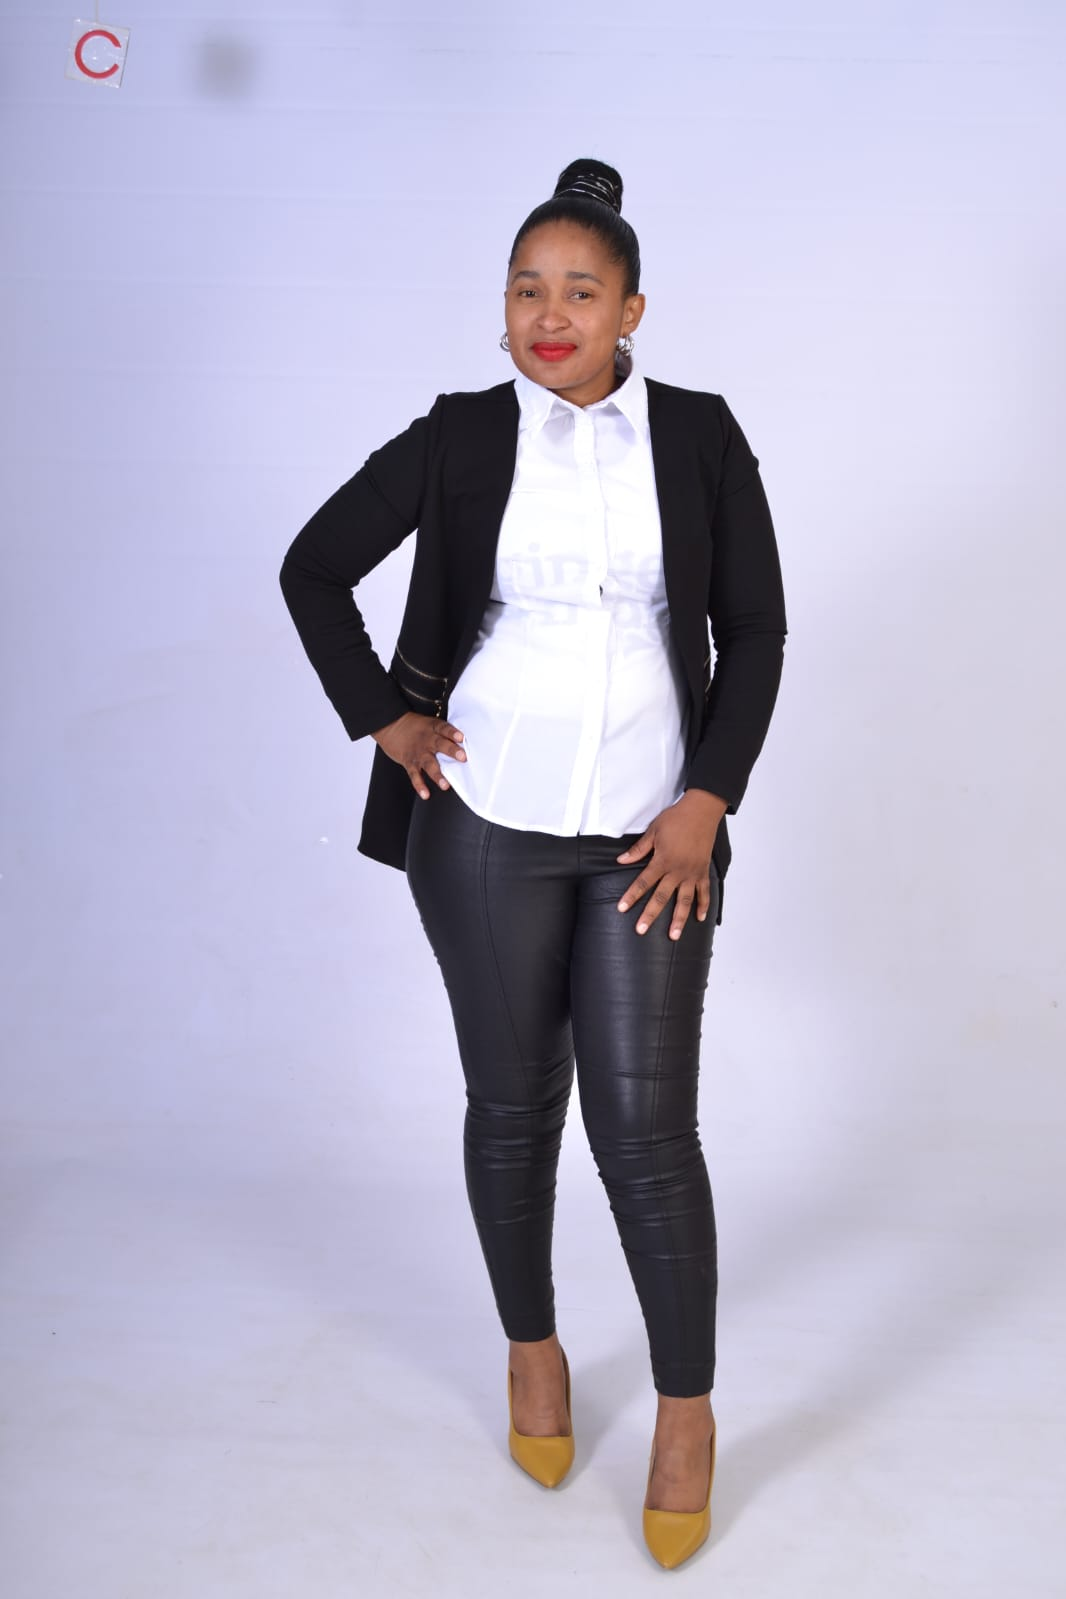
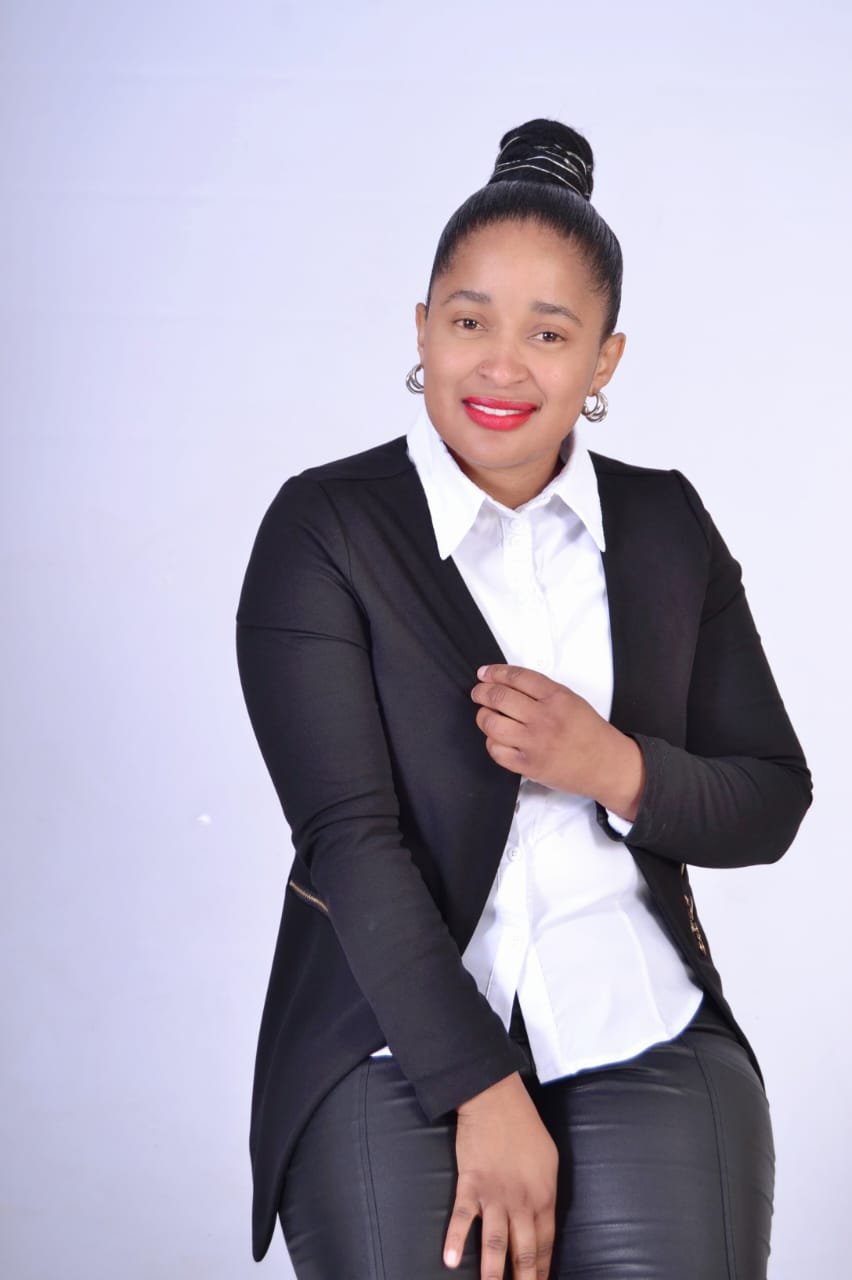
Staff Page Update

diff --git a/src/pages/Staff.jsx b/src/pages/Staff.jsx
@@ -6,10 +6,11 @@ import grade1teacherImage from "../assets/Mrs Pule.jpg";
 import grade2teacherImage from "../assets/Mrs Seitshero.png";
 import grade3teacherImage from "../assets/Mrs Selesho.jpg";
 import grade4teacherImage from "../assets/Mr Mosoetsa.jpg";
-import grade5teacherImage from "../assets/Mrs Seitshero.png";
+import grade5teacherImage from "../assets/Mr Botipe.jpg";
 import grade6teacherImage from "../assets/Mrs Malefane.jpg";
 import grade7teacherImage from "../assets/Mrs Gailele.png";
 import adminClerkImage from "../assets/Mrs Kele.jpg";
+import intersenImage from "../assets/Mrs Ntimotse.jpg";
 import janitorImage from "../assets/Mrs Mekgwe.jpg";
 import generalWorkerImage from "../assets/Mr Mototo.jpg";
 import gradeRTeacherImage from "../assets/Mrs Seapolelo.jpg";
@@ -41,7 +42,7 @@ const staffMembers = [
   {
     name: "Mr. H.K Botipe",
     role: "Grade 5 Class Teacher",
-    image: "https://cdn-icons-png.flaticon.com/512/4140/4140047.png",
+    image: grade5teacherImage,
   },
   {
     name: "Mrs. K.A Malefane",
@@ -54,24 +55,29 @@ const staffMembers = [
     image: grade7teacherImage,
   },
   {
-    name: "Mrs. Kele",
+    name: "Mrs. D.N Ntimotse",
+    role: "Intersen Educator",
+    image: intersenImage,
+  },
+  {
+    name: "Ms. K.J Mokgwera",
     role: "Admin Clerk",
     image: adminClerkImage,
   },
   {
-    name: "Mrs. Mekgwe",
+    name: "Mrs. M.J Mekgwe",
     role: "Janitor",
     image: janitorImage,
   },
   {
-    name: "Mr. Mototo",
+    name: "Mr. M.S Mototo",
     role: "General Worker",
     image: generalWorkerImage,
   },
   {
     name: "Mrs. T.M Seapolelo",
     role: "Grade R Teacher",
-    image:gradeRTeacherImage,
+    image: gradeRTeacherImage,
   },
   {
     name: "Mrs. F.T Madikgetla",
